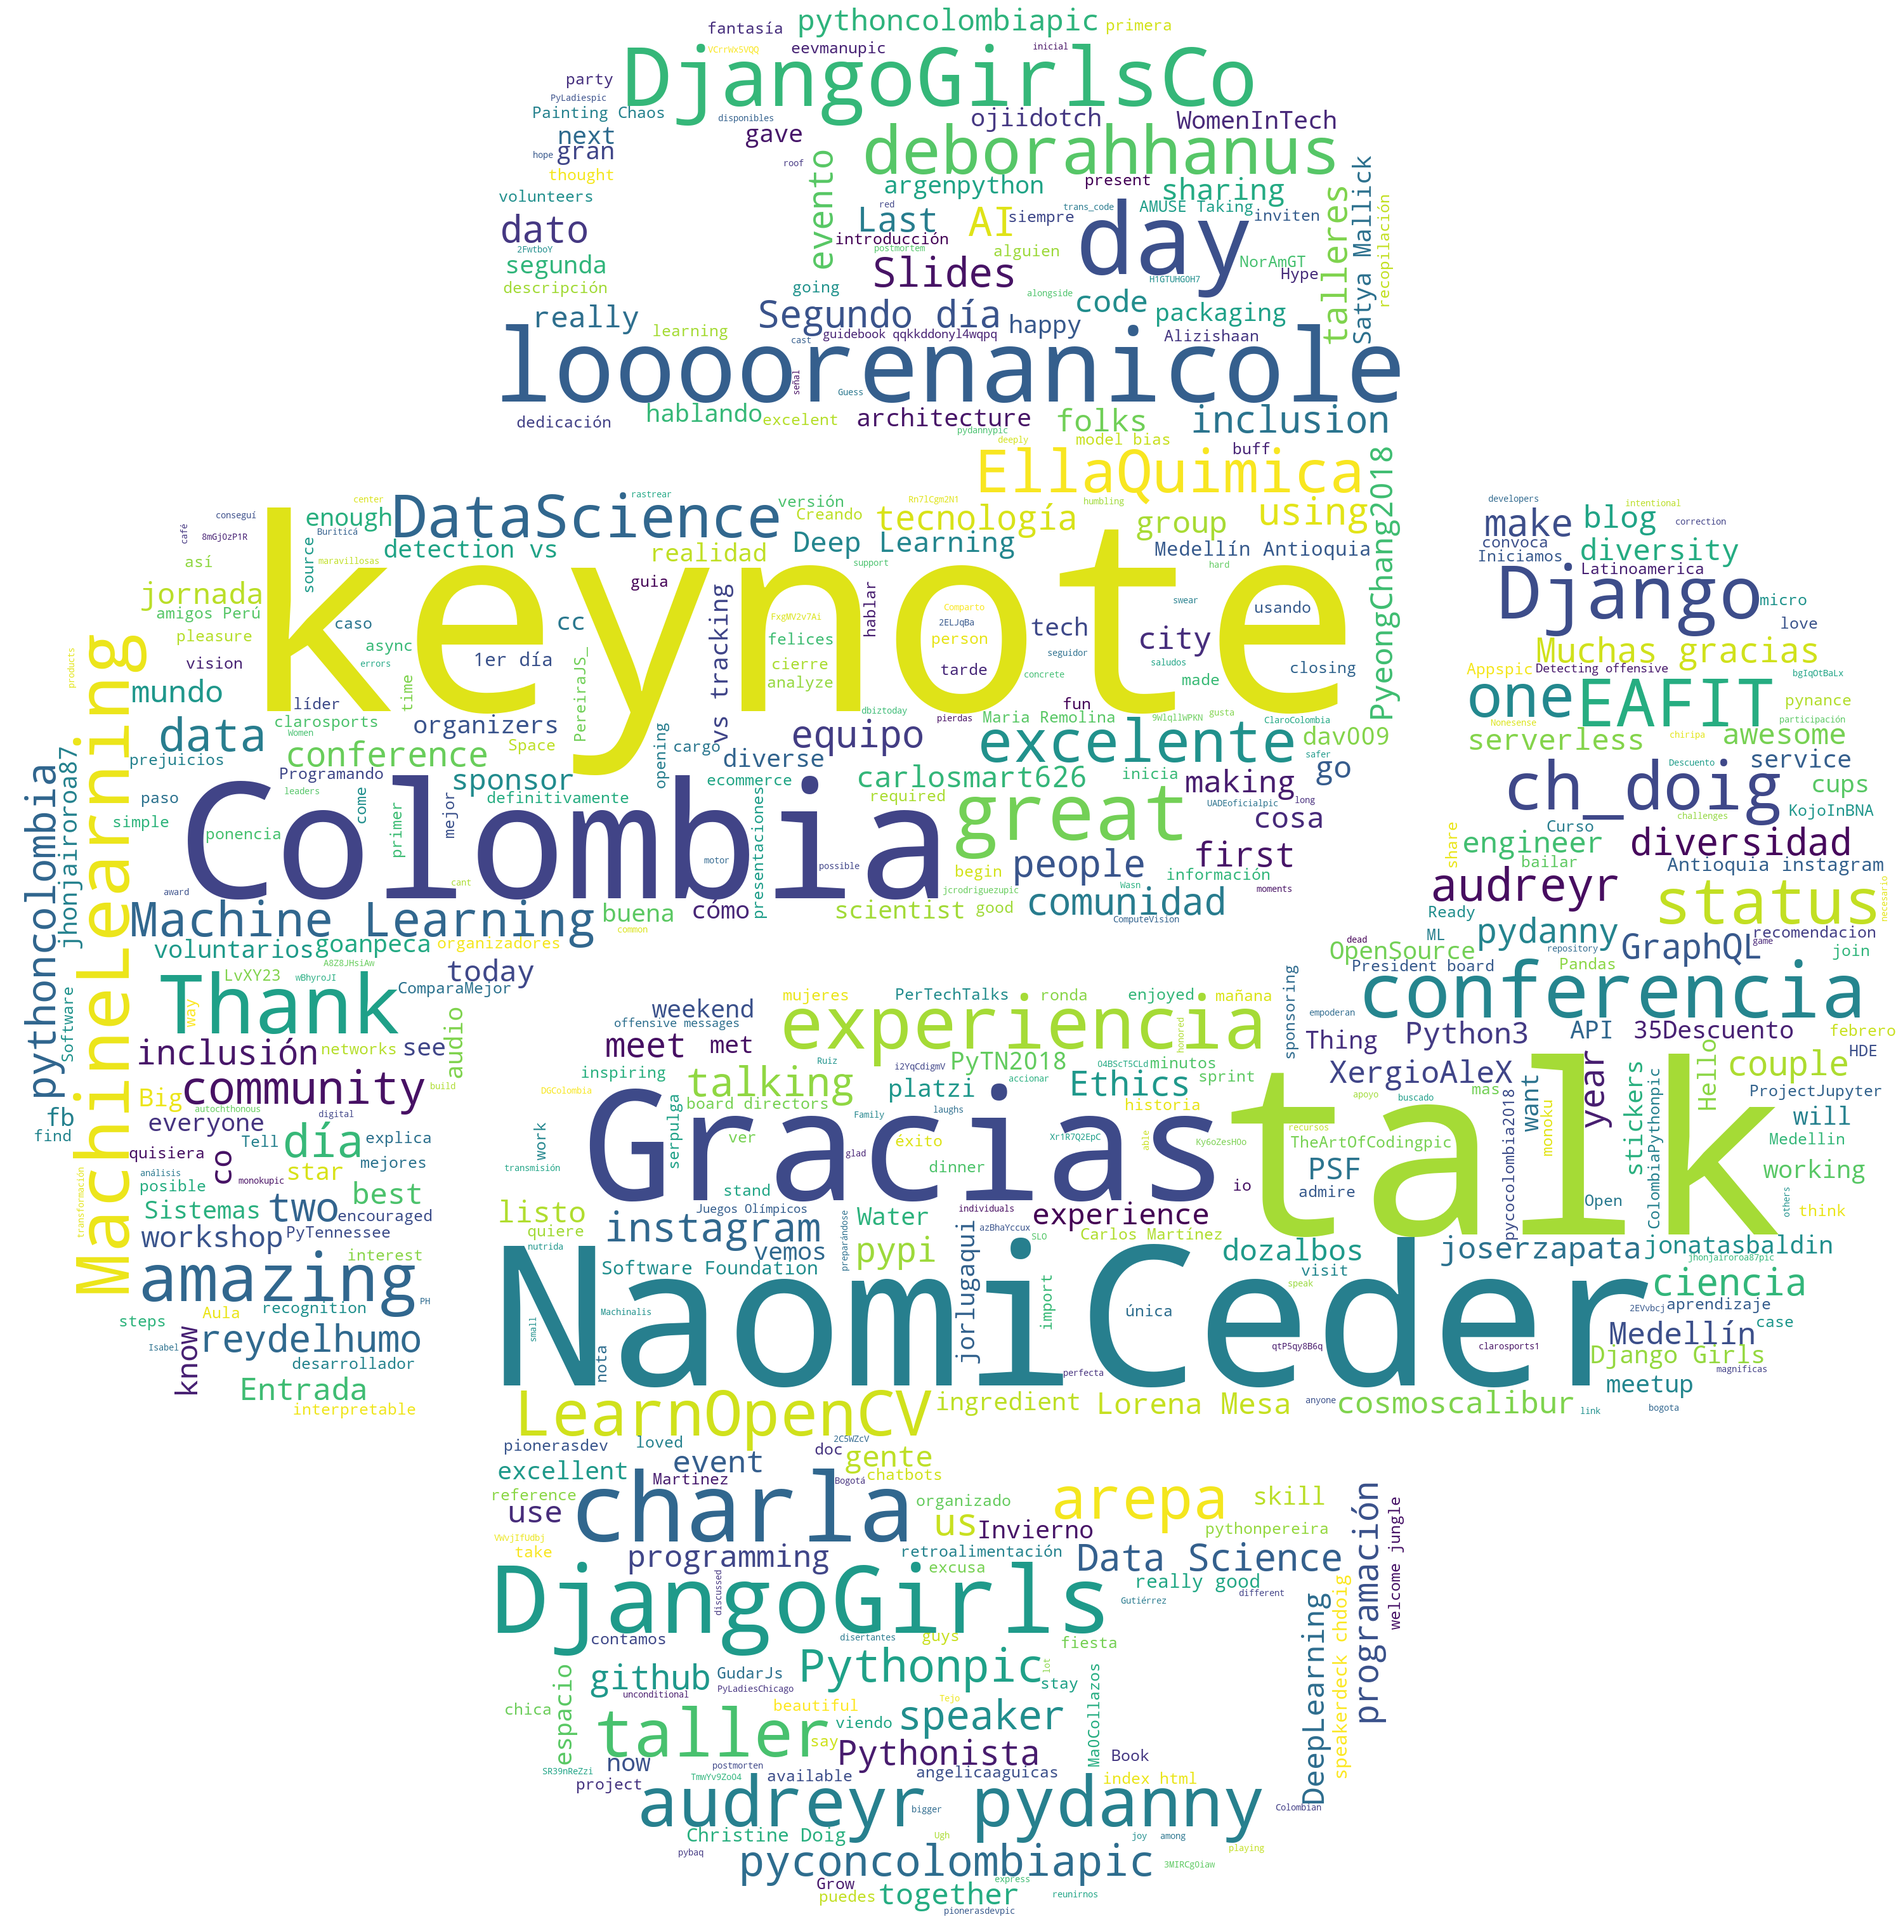
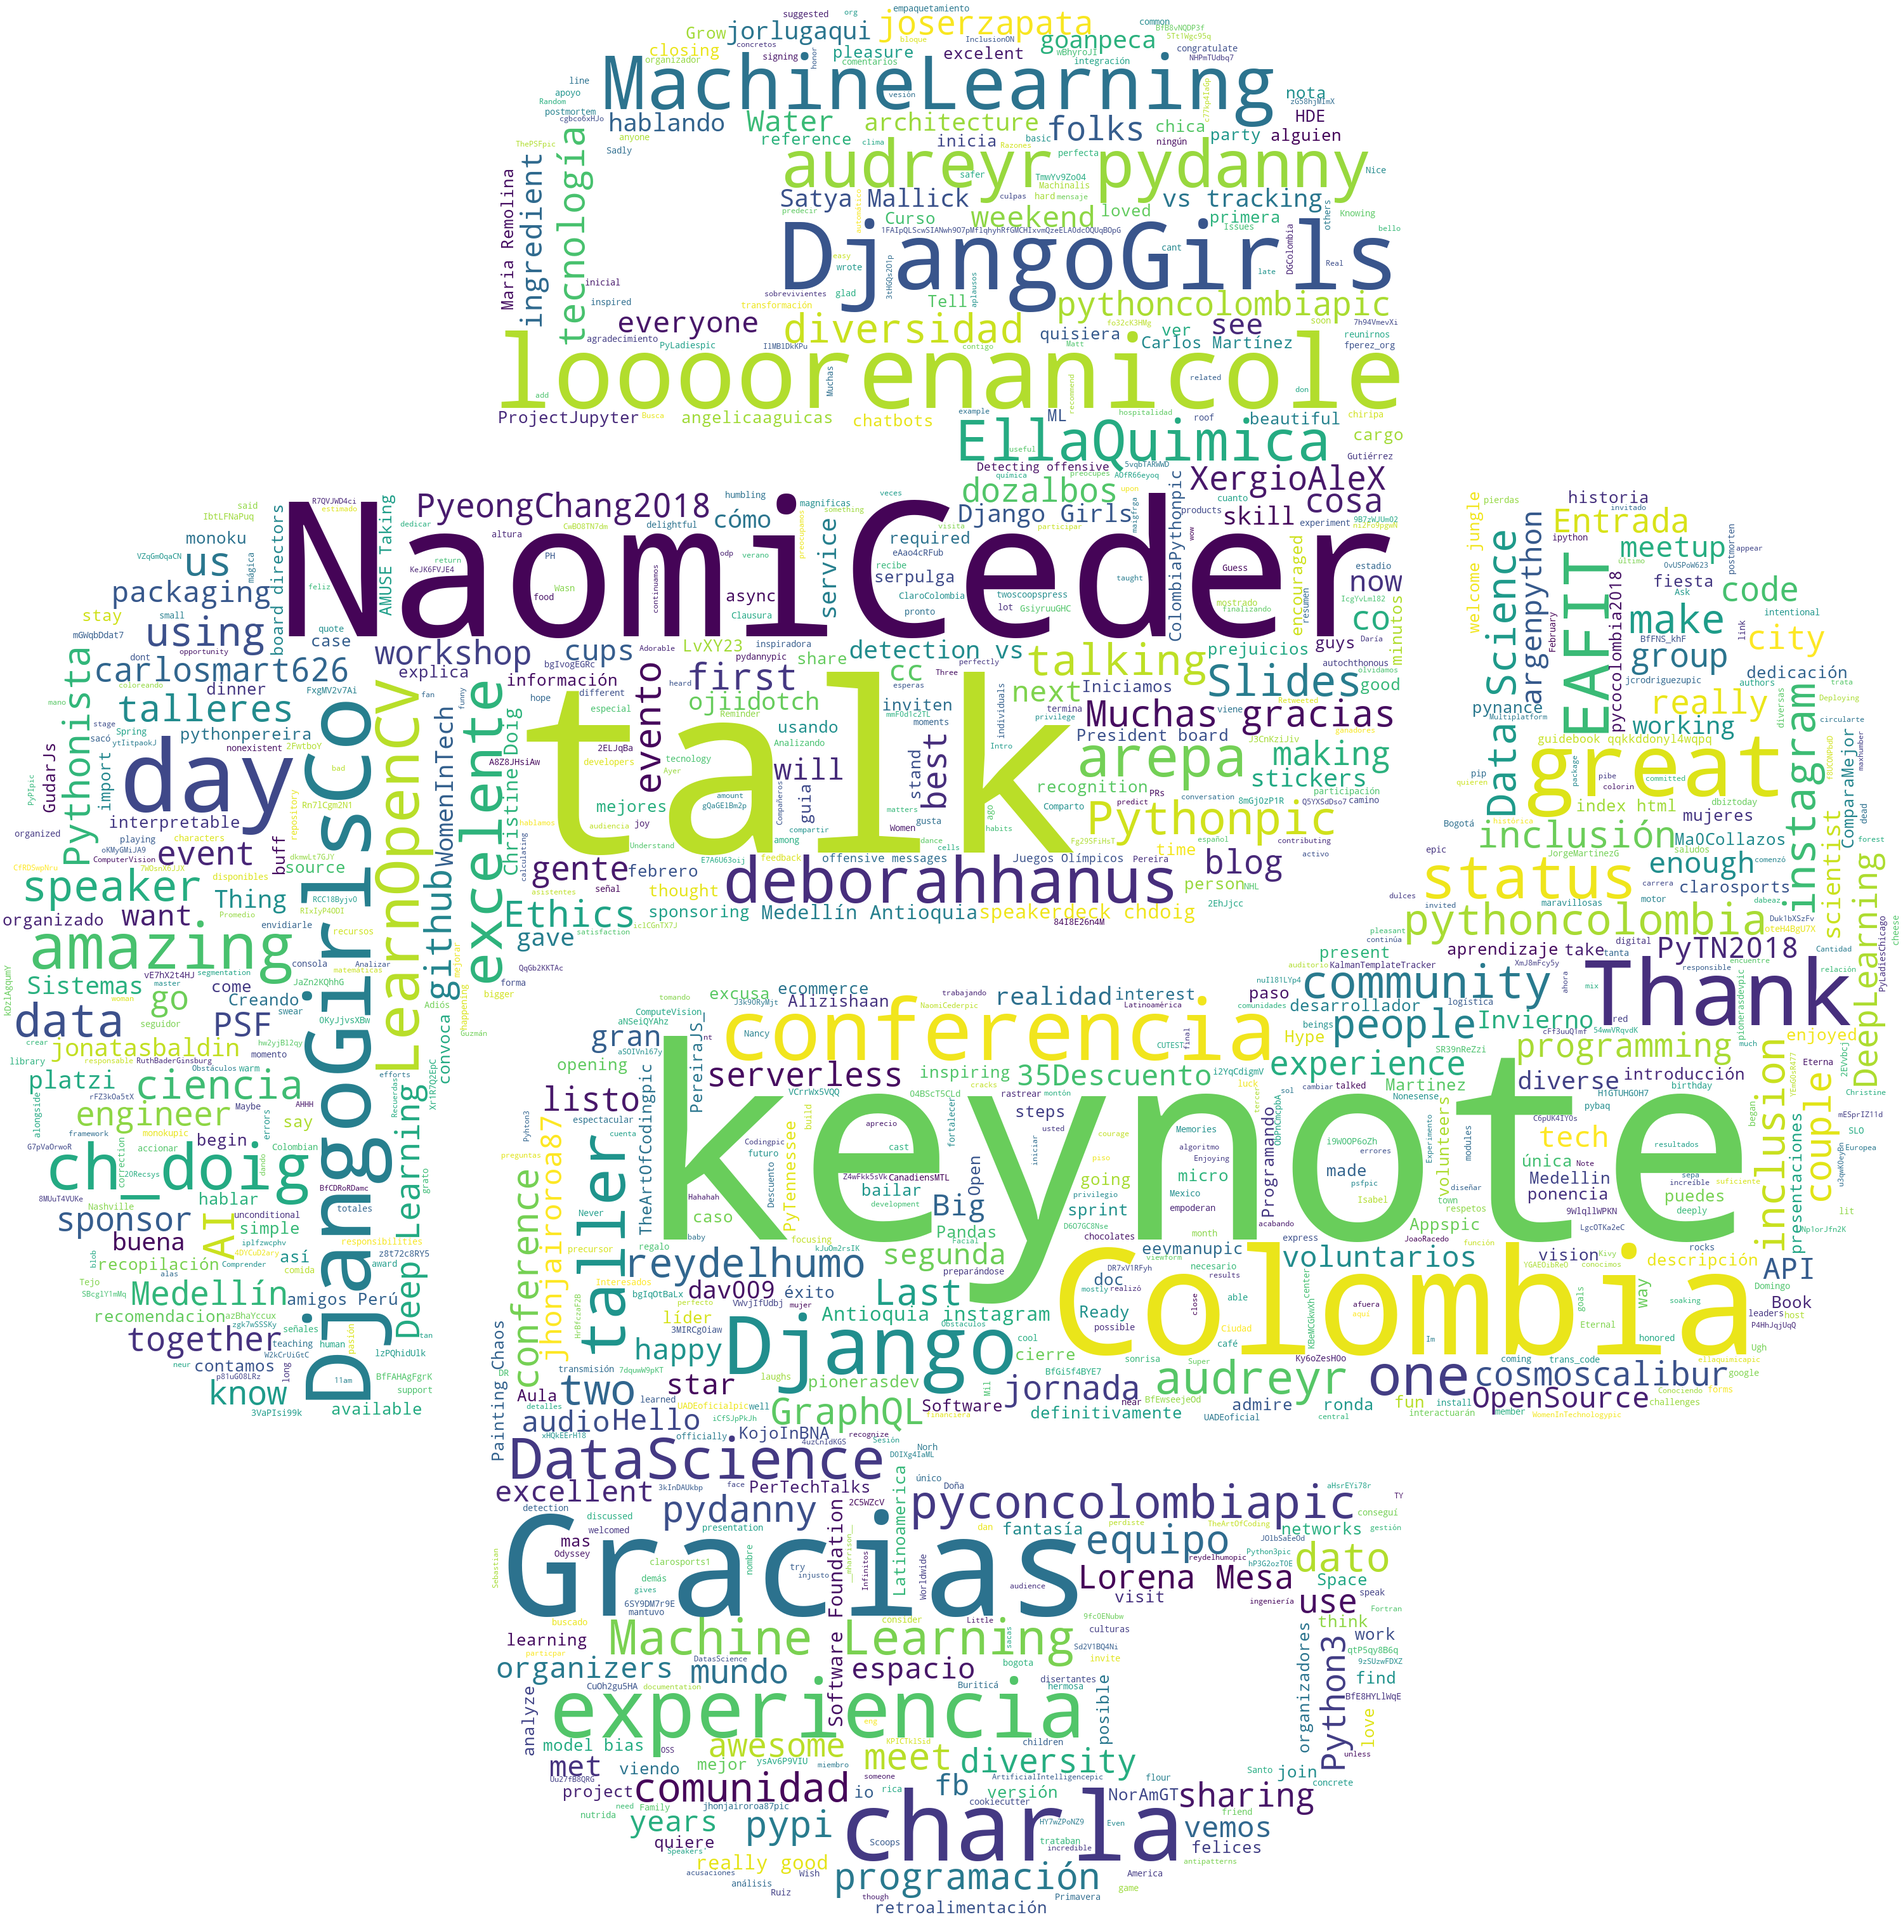
Actualizar README

Changed region(s): [[0.0, 0.0, 0.992, 1.0]]

diff --git a/pycon-metricas/pycon_tweets_wordcloud.py b/pycon-metricas/pycon_tweets_wordcloud.py
@@ -18,7 +18,8 @@ MASK = path.join(HERE, "python_mask.png")
 STOP_EXTRA = ["PyConColombia2018", "pyconcolombia", "twitter", "pic",
               "Pycon2018", "Python", "https", "PyCon2018pic", "ThePSF",
               "PyConColombia2019", "PyCon", "ColombiaPython", "bit", "ly",
-              "goo", "gl"]
+              "goo", "gl", "1er", "día", "hoy", "today", "mañana",
+              "Segundo", "tarde", "primer", "year", "siempre"]
 BW = "white"
 
 # Read files
@@ -34,7 +35,7 @@ stopwords.update(STOP_EXTRA)
 
 # Generate word cloud
 wc = WordCloud(background_color=BW,
-               max_words=500,
+               max_words=1000,
                mask=python_mask,
                width=3000,
                height=3033,

diff --git a/README.md b/README.md
@@ -1,3 +1,39 @@
 # Scripts para ColombiaPython
 
 Una colección de _scripts_ para realizar diferentes tareas de procesamiento
+relacionadas con ColombiaPython.
+
+## pycon-metricas
+
+Esta carpeta contiene scripts para el procesamiento de datos relacionados
+con PyCon Colombia 2018. Actualmente contiene scripts para la generación 
+de nubes de palabras (_wordclouds_) a partir de los _tweets_ asociados al
+evento.
+
+## Dependencias
+
+Los scripts pueden ser ejecutados en los dialectos 2 y 3 de Python
+y requieren de los siguientes paquetes:
+
+- ``beautifulsoup4``.
+- ``wordcloud``.
+
+### Web scrapping
+El script ``pycon_tweets_scrapping.py`` genera un archivo de texto plano
+a partir de un conjunto de tweets. En nuestro caso, se usó un archivo
+html con esta información que no se incluye por razones de derechos de
+autor. Para ejecutar este script
+
+    python pycon_tweets_scrapping.py
+
+
+### Generación de la nube de palabras
+
+El script ``pycon_tweets_scrapping.py`` genera una imagen a partir de:
+
+- **Texto plano:** del cual se obtienen las palabras.
+- **Stopwords:** que define las palabras que no se incluirán en la
+  visualización.
+- **Máscara:** imagen en blanco y negro con la silueta para la nube
+  de palabras.
+
